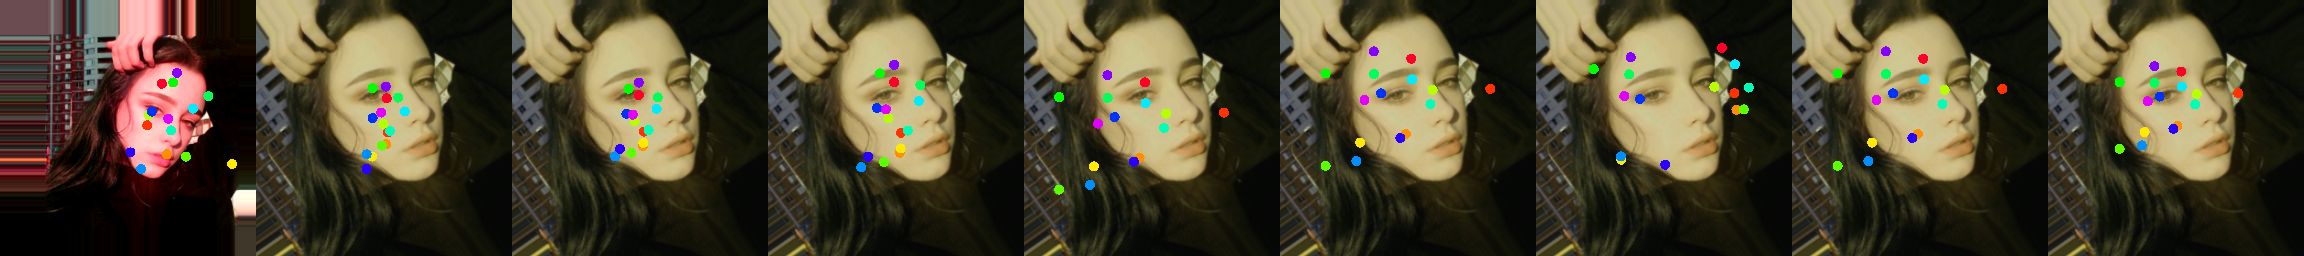
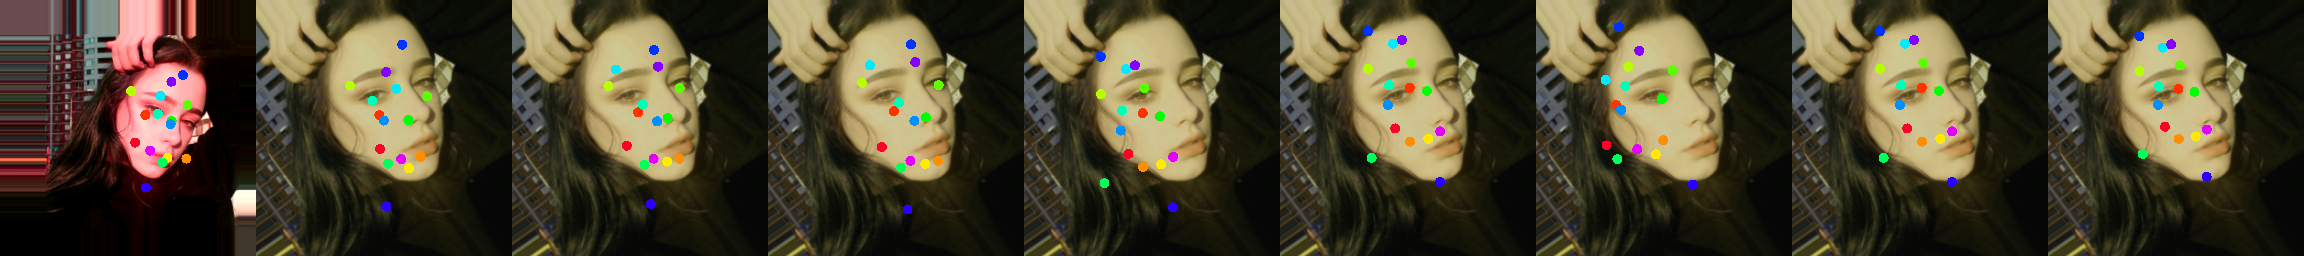
draw

diff --git a/draw_kp.py b/draw_kp.py
@@ -247,9 +247,9 @@ def demo(args):
             
             # delta = delta
             delta_d, _, _, _, _ = g_models["efe"](img, None, kp_c)
-            kp_d1 = kp_c
+            kp_d1, Rd1 = transform_kp(kp_c, yaw*0, pitch*0, roll*0, t*0, scale*1.2)
             kp_d2 = kp_c + delta_d
-            kp_d3, Rd3 = transform_kp(kp_c + delta_d, yaw*0, pitch*0, roll*0, t*0, scale)
+            kp_d3, Rd3 = transform_kp(kp_c + delta_d, yaw*0, pitch*0, roll*0, t*0, scale*1.2)
             kp_d4, Rd4= transform_kp(kp_c + delta_d, yaw, pitch, roll, t*0, scale)
             kp_d5, Rd5 = transform_kp(kp_c + delta_d, yaw, pitch, roll, t, scale)
             kp_d6, Rd6 = transform_kp(kp_c, yaw, pitch, roll, t, scale)
@@ -258,7 +258,7 @@ def demo(args):
 
             # deformation, occlusion, mask = g_models["mfe"](fs, kp_s, kp_d8, Rs, Rd)
             # generated_d = g_models["generator"](fs, deformation, occlusion)
-            deformation, occlusion, _ = g_models["mfe"](fs, kp_s, kp_d1, Rs, Rd3)
+            deformation, occlusion, _ = g_models["mfe"](fs, kp_s, kp_d1, Rs, Rd1)
             generated_d1 = g_models["generator"](fs, deformation, occlusion)
             deformation, occlusion, _ = g_models["mfe"](fs, kp_s, kp_d2, Rs, Rd3)
             generated_d2 = g_models["generator"](fs, deformation, occlusion)
@@ -297,8 +297,8 @@ def demo(args):
             img_with_kp = img_with_kp.clip(0, 1)
             img_with_kp = (255 * img_with_kp).astype(np.uint8)
             # imageio.mimsave(args.output, output_frames)
-            os.makedirs(os.path.dirname(dri) + '_kp_out', exist_ok=True)
-            imageio.imwrite(os.path.dirname(dri) + '_kp_out' + '/' + f'{idx}_'+os.path.basename(dri) , img_with_kp)
+            os.makedirs(os.path.dirname(dri) + '_kp_out8.1', exist_ok=True)
+            imageio.imwrite(os.path.dirname(dri) + '_kp_out8.1' + '/' + f'{idx}_'+os.path.basename(dri) , img_with_kp)
         
         # os.makedirs(dirpath+'out', exist_ok=True)
         # out_path = os.path.join(dirpath+'out', filename)
@@ -316,7 +316,7 @@ def demo(args):
 
             img_d = vs.create_image_grid(*img_d)
             img_d = (255 * img_d).astype(np.uint8)
-            imageio.imwrite(os.path.dirname(dri) + '_kp_out' + '/' + f'{idx}_d_'+os.path.basename(dri), img_d)
+            imageio.imwrite(os.path.dirname(dri) + '_kp_out8.1' + '/' + f'{idx}_d_'+os.path.basename(dri), img_d)
 
             
 
@@ -326,10 +326,10 @@ if __name__ == "__main__":
     def str2bool(s):
         return s.lower().startswith("t")
 
-    parser.add_argument("--ckp_dir", type=str, default="ckp_1644_main8.1", help="Checkpoint dir")
+    parser.add_argument("--ckp_dir", type=str, default="ckp_1644_mainv8.1-nodetach-dl2", help="Checkpoint dir")
     parser.add_argument("--output", type=str, default="output.gif", help="Output video")
-    parser.add_argument("--ckp", type=int, default=10, help="Checkpoint epoch")
-    parser.add_argument("--source", type=str, default="./kp_d/d", help="Source image, f for face frontalization, r for reconstruction")
+    parser.add_argument("--ckp", type=int, default=104, help="Checkpoint epoch")
+    parser.add_argument("--source", type=str, default="./kp_s", help="Source image, f for face frontalization, r for reconstruction")
     parser.add_argument("--driving", type=str, default='./kp_s', help="Driving dir")
     parser.add_argument("--num_frames", type=int, default=90, help="Number of frames")
 
